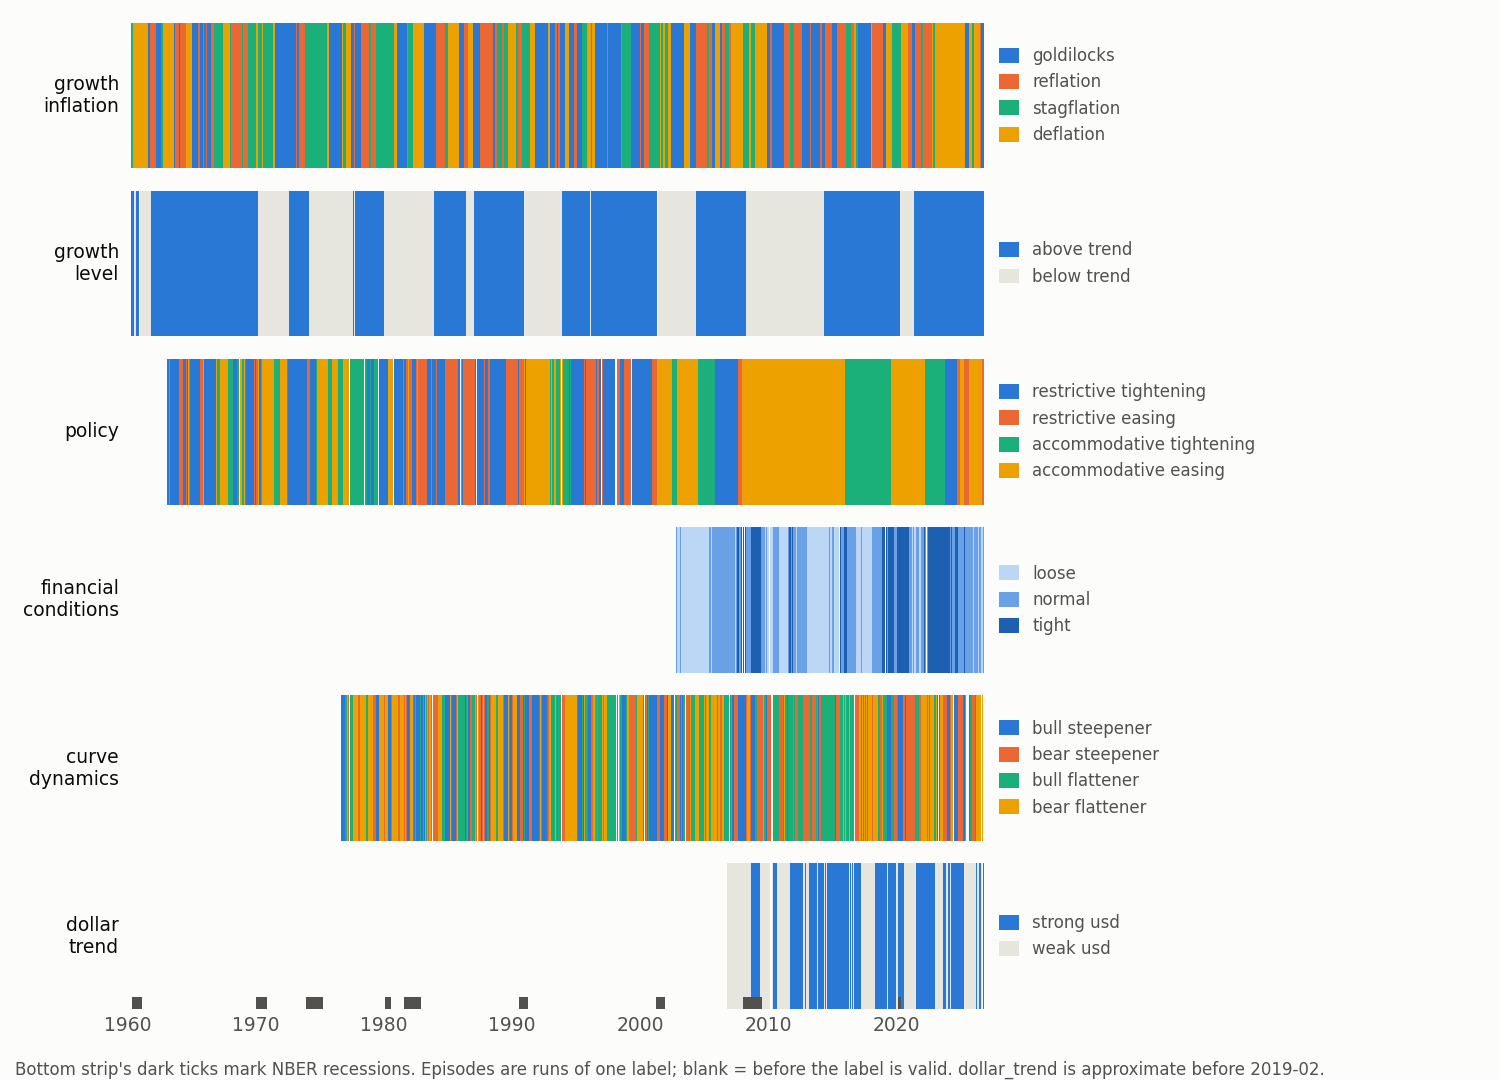
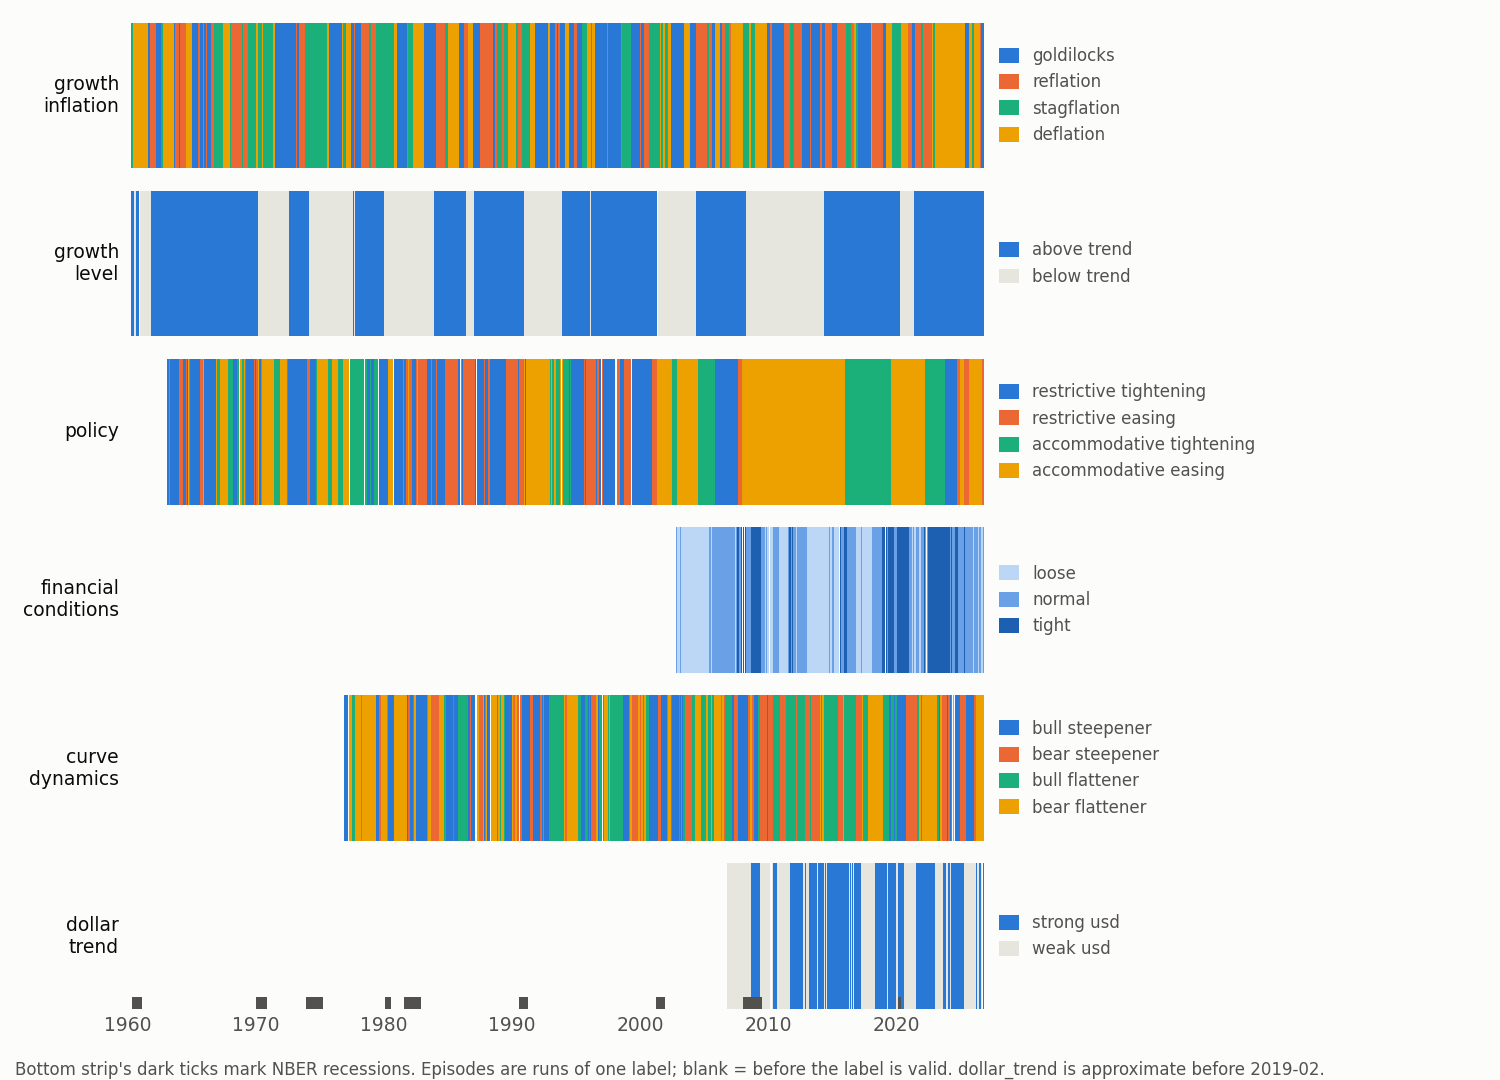
Market-style change window 63 -> 126 business days (CHANGE_WINDOW); validation numbers updated

Changed region(s): [[0.2147, 0.6417, 0.6747, 0.7944]]

diff --git a/src/macro/market.py b/src/macro/market.py
@@ -25,7 +25,7 @@ import pandas as pd
 
 from src.backtest.regimes import expanding_bucket_labels, ma_trend_labels
 from src.macro.pit import to_daily
-from src.macro.state import BURN_IN, D63, _composite, expanding_z
+from src.macro.state import BURN_IN, CHANGE_WINDOW, _composite, expanding_z
 
 MA_WINDOW = 200
 VOL_BURN_IN = 756
@@ -33,7 +33,7 @@ VOL_LABELS = ["low_vol", "mid_vol", "high_vol"]    # same as src.backtest.regime
 COT_AVAILABLE_LAG_DAYS = 3                         # report is for Tuesday, published Friday
 
 # Daily z-score composites: (input key, frequency, sign). Growth pricing is built
-# from derived 63-day changes, see growth_pricing().
+# from derived 126-day changes, see growth_pricing().
 # Positioning: key -> (series code, measure, label). Leveraged funds on TFF for
 # rates / equity index / FX, managed money on disaggregated for commodities.
 POSITIONING: dict[str, tuple[str, str, str]] = {
@@ -53,12 +53,12 @@ def _d(inputs: dict[str, pd.Series], key: str, index: pd.DatetimeIndex) -> pd.Se
     return to_daily(inputs[key], index).rename(key)
 
 
-def _chg(s: pd.Series, n: int = D63) -> pd.Series:
+def _chg(s: pd.Series, n: int = CHANGE_WINDOW) -> pd.Series:
     return s - s.shift(n)
 
 
 def credit(inputs: dict[str, pd.Series], index: pd.DatetimeIndex) -> pd.DataFrame:
-    """HY OAS level and 63-day change, and BBB OAS - IG OAS (all in percent). From 1997."""
+    """HY OAS level and 126-day change, and BBB OAS - IG OAS (all in percent). From 1997."""
     hy = _d(inputs, "BAMLH0A0HYM2", index)
     return pd.DataFrame({
         "hy_oas": hy, "d_hy_oas": _chg(hy),
@@ -110,7 +110,7 @@ def equity_trend(inputs: dict[str, pd.Series], index: pd.DatetimeIndex) -> pd.Se
 
 
 def growth_pricing(inputs: dict[str, pd.Series], index: pd.DatetimeIndex) -> pd.DataFrame:
-    """What markets price for growth: mean of expanding z-scores (burn-in 756) of 63-day
+    """What markets price for growth: mean of expanding z-scores (burn-in 756) of 126-day
     changes in T10Y2Y, -HY OAS, log(Russell 2000 / S&P 500) and log(copper / gold).
     Positive = markets price stronger growth. Needs >= 2 components. From ~2000.
     Copper and gold are front-month futures, not roll-adjusted, so the ratio carries
@@ -140,14 +140,14 @@ def _z_of_change(s: pd.Series, index: pd.DatetimeIndex) -> pd.Series:
 
 
 def inflation_pricing(inputs: dict[str, pd.Series], index: pd.DatetimeIndex) -> pd.Series:
-    """63-day change in T10YIE, expanding z (burn-in 756). From 2003 (+ burn-in)."""
+    """126-day change in T10YIE, expanding z (burn-in 756). From 2003 (+ burn-in)."""
     if "T10YIE" not in inputs:
         return pd.Series(np.nan, index=index, name="inflation_pricing")
     return _z_of_change(inputs["T10YIE"], index).rename("inflation_pricing")
 
 
 def policy_pricing(inputs: dict[str, pd.Series], index: pd.DatetimeIndex) -> pd.Series:
-    """63-day change in DGS2 - DFF, expanding z (burn-in 756). From 1976 (+ burn-in)."""
+    """126-day change in DGS2 - DFF, expanding z (burn-in 756). From 1976 (+ burn-in)."""
     if "DGS2" not in inputs or "DFF" not in inputs:
         return pd.Series(np.nan, index=index, name="policy_pricing")
     spread = (_d(inputs, "DGS2", index) - _d(inputs, "DFF", index)).dropna()

diff --git a/src/macro/rates.py b/src/macro/rates.py
@@ -5,8 +5,8 @@ Rates decomposition (C4). Pure pandas, no DB access: it takes the release-dated
 daily series built by src.macro.inputs.load_rates_inputs. Definitions are frozen
 in docs/research/macro_state_definitions_v1.md section 2.
 
-All series are forward-filled onto a business-day grid; "3-month" changes are
-D63 = 63 business days. Yields are in percent, so 10 bp = 0.10.
+All series are forward-filled onto a business-day grid; changes are over
+CHANGE_WINDOW = 126 business days (~6 months). Yields are in percent, so 10 bp = 0.10.
 
 Usage:
     inputs = load_rates_inputs(ro)
@@ -22,7 +22,7 @@ import pandas as pd
 
 from src.macro.pit import to_daily
 
-D63 = 63
+CHANGE_WINDOW = 126
 ATTRIBUTION_MIN_MOVE = 0.10     # percent: shares only reported when |d_nominal| exceeds this
 PROXY_DURATION = 8.5            # constant modified duration of the Treasury proxy, years
 PROXY_DAYS = 252
@@ -40,7 +40,7 @@ def _daily(inputs: dict[str, pd.Series], code: str, index: pd.DatetimeIndex) -> 
 
 
 def nominal_decomposition(
-    inputs: dict[str, pd.Series], index: pd.DatetimeIndex, tenor: int = 10, window: int = D63,
+    inputs: dict[str, pd.Series], index: pd.DatetimeIndex, tenor: int = 10, window: int = CHANGE_WINDOW,
 ) -> pd.DataFrame:
     """nominal = real + breakeven, with `window`-day changes attributed to each part.
 
@@ -64,7 +64,7 @@ def nominal_decomposition(
     return out
 
 
-def term_premium(inputs: dict[str, pd.Series], index: pd.DatetimeIndex, window: int = D63) -> pd.DataFrame:
+def term_premium(inputs: dict[str, pd.Series], index: pd.DatetimeIndex, window: int = CHANGE_WINDOW) -> pd.DataFrame:
     """THREEFYTP10 level and change. A model estimate (real-time from 2016 only; earlier
     values are revised history, so under the default pre_vintage="drop" the loader
     returns it from 2016 only; use "latest_lagged" for exploration). Shown beside the decomposition, never added to it:
@@ -73,8 +73,8 @@ def term_premium(inputs: dict[str, pd.Series], index: pd.DatetimeIndex, window: 
     return pd.DataFrame({"term_premium": tp, "d_term_premium": tp - tp.shift(window)})
 
 
-def curve(inputs: dict[str, pd.Series], index: pd.DatetimeIndex, window: int = D63) -> pd.DataFrame:
-    """Curve levels, 3-month changes and the bull/bear steepener/flattener state.
+def curve(inputs: dict[str, pd.Series], index: pd.DatetimeIndex, window: int = CHANGE_WINDOW) -> pd.DataFrame:
+    """Curve levels, 6-month changes and the bull/bear steepener/flattener state.
 
     bull/bear = d_DGS10 < 0 / >= 0; steepener/flattener = d_T10Y2Y >= 0 / < 0.
     State is NaN where either change is unavailable. T10Y2Y from 1976, T10Y3M from 1982.
@@ -93,7 +93,7 @@ def curve(inputs: dict[str, pd.Series], index: pd.DatetimeIndex, window: int = D
     return out
 
 
-def policy_expectations(inputs: dict[str, pd.Series], index: pd.DatetimeIndex, window: int = D63) -> pd.DataFrame:
+def policy_expectations(inputs: dict[str, pd.Series], index: pd.DatetimeIndex, window: int = CHANGE_WINDOW) -> pd.DataFrame:
     """DGS2 - DFF and DGS1 - DFF: a free proxy for OIS-implied policy over 1-2 years.
     It includes term premium, so it is a proxy, not an expectation. From 1976."""
     dff = _daily(inputs, "DFF", index)

diff --git a/src/macro/state.py b/src/macro/state.py
@@ -30,8 +30,11 @@ from src.macro.pit import staleness, to_daily
 BURN_IN: dict[str, int] = {"monthly": 60, "weekly": 156, "daily": 756, "quarterly": 20}
 Z_CLIP = 3.0
 
-# Business-day windows for market-style changes.
-D126, D63 = 126, 63
+# Business-day windows. CHANGE_WINDOW is the one lookback for every market-style change in the
+# macro layer (FC_impulse here, curve / decomposition changes in rates.py, credit and pricing
+# changes in market.py): 6 months, matching the 6-month impulses of the macro series (J4).
+D126 = 126
+CHANGE_WINDOW = D126
 
 # (input name, frequency, sign). Positive sign = more of what the composite is named for.
 GROWTH_LEVEL = [("ip_yoy", "monthly", +1), ("pay_yoy", "monthly", +1), ("unr_gap", "monthly", -1)]
@@ -117,7 +120,7 @@ def macro_state(inputs: dict[str, pd.Series], index: pd.DatetimeIndex) -> pd.Dat
     out["G_impulse"], out["G_impulse_n"] = g_imp["value"], g_imp["n"]
     out["L_impulse"], out["L_impulse_n"] = l_imp["value"], l_imp["n"]
     out["FC"], out["FC_n"] = fc["value"], fc["n"]
-    out["FC_impulse"] = fc["value"] - fc["value"].shift(D63)
+    out["FC_impulse"] = fc["value"] - fc["value"].shift(CHANGE_WINDOW)
     out["CS"], out["CS_n"] = cs["value"], cs["n"]
     out["CS_impulse"] = cs["value"] - cs["value"].shift(D126)
 

diff --git a/tests/macro/test_rates.py b/tests/macro/test_rates.py
@@ -57,11 +57,13 @@ def test_missing_series_give_nan_not_error():
     assert rates.treasury_proxy_returns({}, IDX).isna().all()
 
 
-def test_changes_are_causal_63_day_differences():
+def test_changes_are_causal_6_month_differences():
+    n = rates.CHANGE_WINDOW
+    assert n == 126
     inp = _inputs()
     d = rates.nominal_decomposition(inp, IDX)
-    assert d["d_real"].iloc[100] == pytest.approx(inp["DFII10"].iloc[100] - inp["DFII10"].iloc[37])
-    assert d["d_real"].iloc[:63].isna().all()
+    assert d["d_real"].iloc[200] == pytest.approx(inp["DFII10"].iloc[200] - inp["DFII10"].iloc[200 - n])
+    assert d["d_real"].iloc[:n].isna().all() and d["d_real"].iloc[n:].notna().all()
 
 
 def test_truncation_invariance():
@@ -76,7 +78,7 @@ def test_curve_state_labels():
     y10 = _s(np.r_[np.linspace(4, 3, 200), np.linspace(3, 5, len(IDX) - 200)])
     spread = _s(np.r_[np.linspace(1, 2, 200), np.linspace(2, 0, len(IDX) - 200)])
     c = rates.curve({"DGS10": y10, "T10Y2Y": spread}, IDX)
-    assert c["curve_state"].iloc[:63].isna().all()
+    assert c["curve_state"].iloc[:rates.CHANGE_WINDOW].isna().all()
     assert c["curve_state"].iloc[150] == "bull_steepener"
     assert c["curve_state"].iloc[-1] == "bear_flattener"
 

diff --git a/tests/macro/test_state.py b/tests/macro/test_state.py
@@ -182,3 +182,12 @@ def test_state_reports_inputs_that_are_approximate_before_their_first_vintage():
     st = macro_state(inp, IDX)
     assert st.attrs["approximate_before"] == {"cont_yoy13": pd.Timestamp("2009-09-10")}
     assert macro_state(_inputs(), IDX).attrs["approximate_before"] == {}
+
+
+def test_fc_impulse_uses_the_six_month_change_window():
+    from src.macro.state import CHANGE_WINDOW
+    st = macro_state(_inputs(), IDX)
+    assert CHANGE_WINDOW == 126
+    fc = st["FC"]
+    both = pd.concat([st["FC_impulse"], fc - fc.shift(CHANGE_WINDOW)], axis=1).dropna()
+    assert len(both) > 100 and (both.iloc[:, 0] - both.iloc[:, 1]).abs().max() < 1e-12

diff --git a/tests/macro/test_market.py b/tests/macro/test_market.py
@@ -34,7 +34,9 @@ def test_credit_and_dollar_definitions():
     inp = _inputs()
     c = market.credit(inp, IDX)
     assert c["bbb_minus_ig"].iloc[50] == pytest.approx(inp["BAMLC0A4CBBB"].iloc[50] - inp["BAMLC0A0CM"].iloc[50])
-    assert c["d_hy_oas"].iloc[100] == pytest.approx(inp["BAMLH0A0HYM2"].iloc[100] - inp["BAMLH0A0HYM2"].iloc[37])
+    n = market.CHANGE_WINDOW
+    assert n == 126
+    assert c["d_hy_oas"].iloc[200] == pytest.approx(inp["BAMLH0A0HYM2"].iloc[200] - inp["BAMLH0A0HYM2"].iloc[200 - n])
     d = market.dollar(inp, IDX)
     assert d["usd_gap"].iloc[:199].isna().all() and d["usd_gap"].iloc[199:].notna().all()
     usd = inp["DTWEXBGS"]

diff --git a/src/macro/regimes.py b/src/macro/regimes.py
@@ -241,7 +241,7 @@ class FinancialConditionsRegime(MacroRegime):
 
 
 class CurveDynamicsRegime(MacroRegime):
-    """bull/bear x steepener/flattener from the 63-day changes in DGS10 and T10Y2Y."""
+    """bull/bear x steepener/flattener from the 126-day (6-month) changes in DGS10 and T10Y2Y."""
     layer = "market"
     name = "curve_dynamics"
     columns = ("curve_state",)

diff --git a/docs/research/macro_state_validation.md b/docs/research/macro_state_validation.md
@@ -5,6 +5,7 @@
 **Code checked:** `06cdedc` (state), `2984b5b` (rates), `d2fcc8a` + `e452b2b` (market, dollar), `81dfaab` (regimes, flags), `ad25a59` (ledger).
 **Data as of:** 2026-10-23. Every number below comes from `scripts/macro_state_validation.py`.
 **No asset returns were used** (plan step C8.1). Everything is compared with NBER recessions (`USREC`), known episodes, other vintages of the same data, and the state's own history.
+**Change window (2026-10-24):** every market-style change in the macro layer now uses 126 business days (6 months), not 63. This affects `curve_dynamics`, `FC_impulse`, the rates decomposition and the market pricing variables. Numbers below are on the 126-day window; the one that changed materially is `curve_dynamics` (1,282 episodes before, 816 now).
 **File name:** the plan called this `macro_state_v1.md`; the repo's guard treats any `docs/research/*_v<N>.md` as a frozen definitions file, so it is named `macro_state_validation.md`. Figures are in `docs/research/macro_state_v1/`.
 
 ## 1. Verdict in one table
@@ -135,7 +136,7 @@ I rebuilt the whole state using every period's *latest* value, available on its 
 | `L_level` | 0.998 | 0.067 | 0.45 |
 | `L_impulse` | 0.987 | 0.090 | 0.54 |
 | `pi_level`, `pi_impulse`, `P_stance`, `P_impulse` | 1.000 | 0.000 | 0.000 |
-| `FC`, `FC_impulse` | 1.000, 0.999 | 0.008, 0.012 | 0.20, 0.19 |
+| `FC`, `FC_impulse` | 1.000, 1.000 | 0.008, 0.012 | 0.20, 0.21 |
 | `CS`, `CS_impulse` | 0.979, 0.942 | 0.106, 0.126 | 0.90, 0.84 |
 
 | Regime | Label differs on (all days) | Since 1996 |
@@ -184,19 +185,19 @@ Cramér's V between regime labels, on days where both exist (at least 5,008 days
 
 | | gr_inf | gr_lvl | policy | fin_cond | curve | dollar | vol | rates_curve | eq_trend |
 |---|---|---|---|---|---|---|---|---|---|
-| growth_inflation | 1.00 | 0.24 | 0.16 | 0.39 | 0.21 | 0.24 | 0.17 | 0.20 | 0.22 |
-| growth_level | 0.24 | 1.00 | **0.54** | 0.24 | 0.20 | 0.08 | 0.09 | 0.13 | 0.08 |
-| policy | 0.16 | 0.54 | 1.00 | 0.25 | 0.21 | 0.15 | 0.22 | **0.45** | 0.06 |
-| financial_conditions | 0.39 | 0.24 | 0.25 | 1.00 | 0.22 | 0.12 | 0.37 | 0.35 | **0.43** |
-| curve_dynamics | 0.21 | 0.20 | 0.21 | 0.22 | 1.00 | 0.15 | 0.11 | 0.17 | 0.12 |
-| dollar_trend | 0.24 | 0.08 | 0.15 | 0.12 | 0.15 | 1.00 | 0.10 | 0.01 | 0.20 |
-| volatility | 0.17 | 0.09 | 0.22 | 0.37 | 0.11 | 0.10 | 1.00 | 0.03 | **0.49** |
-| rates_curve | 0.20 | 0.13 | 0.45 | 0.35 | 0.17 | 0.01 | 0.03 | 1.00 | 0.02 |
-| equity_trend | 0.22 | 0.08 | 0.06 | 0.43 | 0.12 | 0.20 | 0.49 | 0.02 | 1.00 |
+| growth_inflation | 1.00 | 0.24 | 0.16 | 0.39 | 0.26 | 0.24 | 0.17 | 0.20 | 0.22 |
+| growth_level | 0.24 | 1.00 | **0.54** | 0.24 | 0.28 | 0.08 | 0.09 | 0.13 | 0.08 |
+| policy | 0.16 | 0.54 | 1.00 | 0.25 | 0.31 | 0.15 | 0.22 | **0.45** | 0.06 |
+| financial_conditions | 0.39 | 0.24 | 0.25 | 1.00 | 0.21 | 0.12 | 0.37 | 0.35 | **0.43** |
+| curve_dynamics | 0.26 | 0.28 | 0.31 | 0.21 | 1.00 | 0.20 | 0.15 | 0.26 | 0.21 |
+| dollar_trend | 0.24 | 0.08 | 0.15 | 0.12 | 0.20 | 1.00 | 0.10 | 0.01 | 0.20 |
+| volatility | 0.17 | 0.09 | 0.22 | 0.37 | 0.15 | 0.10 | 1.00 | 0.03 | **0.49** |
+| rates_curve | 0.20 | 0.13 | 0.45 | 0.35 | 0.26 | 0.01 | 0.03 | 1.00 | 0.02 |
+| equity_trend | 0.22 | 0.08 | 0.06 | 0.43 | 0.21 | 0.20 | 0.49 | 0.02 | 1.00 |
 
 - **No pair is a near-duplicate** (highest 0.54, `policy` and `growth_level`; both follow the long cycles of the 1960s–80s). So nothing needs dropping on overlap grounds.
-- **`RatesRegime` (`rates_curve`) and `curve_dynamics` both stay:** V = 0.17. One is the level of the curve, the other the direction of change.
-- **State vector correlations above 0.6 in absolute value:** `G_level` with `L_level` (-0.80) and `G_impulse` with `L_impulse` (-0.74). They share unemployment and claims, so the labor variables add little over growth. They stay because the spec keeps them for the `labor_deteriorating` flag, but they shouldn't be used as independent regressors next to `G`.
+- **`RatesRegime` (`rates_curve`) and `curve_dynamics` both stay:** V = 0.26. One is the level of the curve, the other the direction of change.
+- **State vector correlations above 0.6 in absolute value:** `G_level` with `L_level` (-0.80) and `G_impulse` with `L_impulse` (-0.73). They share unemployment and claims, so the labor variables add little over growth. They stay because the spec keeps them for the `labor_deteriorating` flag, but they shouldn't be used as independent regressors next to `G`.
 
 ## 7. Episodes: how many independent observations are behind each label
 
@@ -208,12 +209,12 @@ An episode is a maximal run of one label. Labels with fewer than 5 episodes woul
 | `growth_level` | 1960-04 | 21 | 780 | 827 |
 | `policy` | 1963-02 | 862 | **3.5** | 19 |
 | `financial_conditions` | 2002-10 | 388 | **3.5** | 16 |
-| `curve_dynamics` | 1976-08 | 1,282 | **3.0** | 10 |
+| `curve_dynamics` | 1976-11 | 816 | **3.0** | 16 |
 | `dollar_trend` | 2006-10 | 108 | 10 | 48 |
 
 (`growth_inflation` and `growth_level` are shown with their `min_duration` rule applied, which is how experiments see them. The existing `volatility` and `equity_trend` regimes are similar in kind: 870 and 373 episodes, medians of 3 and 4 days on the raw label counts.)
 
-`growth_inflation`'s 21-day rule works: without it there'd be 259 episodes with a median of 40 days. The other regimes have no such rule and flip every few days. Counted as raw runs they look like hundreds of independent episodes; they aren't. A label that flips every 3 days around a threshold is noise sampling, and each regime statistic would carry a false sense of precision.
+`growth_inflation`'s 21-day rule works: without it there'd be 259 episodes with a median of 40 days. The other regimes have no such rule and flip every few days. For `curve_dynamics` the 6-month change window cut the episodes from 1,282 to 816 and raised the mean run from 10 to 16 days, but the median is still 3: a longer window doesn't stop the sign of a change flipping around zero day to day. Counted as raw runs they look like hundreds of independent episodes; they aren't. A label that flips every 3 days around a threshold is noise sampling, and each regime statistic would carry a false sense of precision.
 
 What the existing `min_duration` rule does if applied elsewhere (label stability only; each rule delays a regime change by that many days):
 
@@ -225,9 +226,9 @@ What the existing `min_duration` rule does if applied elsewhere (label stability
 | `financial_conditions` | 1 (current) | 388 | 3.5 | 3/3 |
 | | 21 | 33 | 123 | 3/3 |
 | | 63 | 15 | 355 | **1/3** |
-| `curve_dynamics` | 1 (current) | 1,282 | 3.0 | 4/4 |
-| | 21 | 125 | 83 | 4/4 |
-| | 63 | 38 | 263 | 4/4 |
+| `curve_dynamics` | 1 (current) | 816 | 3.0 | 4/4 |
+| | 21 | 94 | 110 | 4/4 |
+| | 63 | 46 | 266 | 4/4 |
 | `dollar_trend` | 1 (current) | 108 | 10 | 2/2 |
 | | 21 | 26 | 182 | 2/2 |
 | | 63 | 13 | 338 | 2/2 |
@@ -240,7 +241,7 @@ Spec section 7 allows a definition to change when C8 shows it's wrong, with a wr
 
 | # | Finding | Proposal | Effect |
 |---|---|---|---|
-| **D1** | Four regimes flip every 2–10 days (§7) | Apply `min_duration = 21` to `policy`, `financial_conditions`, `curve_dynamics` and `dollar_trend` (the J9 alternative: "apply to every regime"). Leave `growth_level` (already stable) | Episodes fall from 862 / 388 / 1,282 / 108 to 62 / 33 / 125 / 26; every change is confirmed 21 days late. New `family_version` v2 |
+| **D1** | Four regimes flip every 2–10 days (§7) | Apply `min_duration = 21` to `policy`, `financial_conditions`, `curve_dynamics` and `dollar_trend` (the J9 alternative: "apply to every regime"). Leave `growth_level` (already stable) | Episodes fall from 862 / 388 / 816 / 108 to 62 / 33 / 94 / 26; every change is confirmed 21 days late. New `family_version` v2 |
 | **D2** | Continuing claims aren't unrevised (§5.2) | **Decided and applied 2026-10-24:** same treatment as the dollar (real-time vintages from 2009-09, back-filled latest values with a 19-day lag before; `L_impulse` flagged approximate before then) | `L_impulse` correlation 1.000 with the old build; `labor_deteriorating` flag differs on 0.4% of days; regimes identical. Full 1968 history kept |
 | **D3** | SLOOS history was restated in 2019 (§5.2) | Keep, and label `CS` as approximate for its expanding baseline before 2019 | No code change; one line in the spec's change log |
 | **D4** | `policy` stance is "accommodative" through 2009–2022 (§4) | No change. Report `policy` results pre- and post-2008 separately, and don't read `restrictive_*` after 2008 | None |

diff --git a/docs/plans/macro_research_layer.md b/docs/plans/macro_research_layer.md
@@ -365,7 +365,7 @@ A first-class module, not part of "curve dynamics".
 `src/macro/inputs.py` (13 daily FRED codes); 10 tests. Definitions follow spec section 2 unchanged.
 Notes: `THREEFYTP10` is vintaged from 2016-05 only, so under E2 "drop" the term premium starts
 there (`latest_lagged` for exploration). 10Y decomposition residual max 2 bp (rounding). Live values on
-2026-10-23: 10Y 4.96 = real 2.64 + BE 2.34 (3m move +35 bp, two-thirds real), curve `bear_flattener`,
+2026-10-23: 10Y 4.96 = real 2.64 + BE 2.34 (3-month move +35 bp, two-thirds real; measured at the original 63-day window, which later became 126 days), curve `bear_flattener`,
 T10Y2Y +0.31, DGS2-DFF +0.77.
 
 ## C5. Market state and positioning (`src/macro/market.py`)
@@ -439,7 +439,7 @@ pass); the six regimes run through the real `Conditioner.by_regime()`. The exist
 | `growth_level` | 1960-04 | 25 | above_trend |
 | `policy` | 1963-02 | 862 | restrictive_easing |
 | `financial_conditions` | 2002-10 | 388 | normal |
-| `curve_dynamics` | 1976-08 | 1,282 | bear_flattener |
+| `curve_dynamics` | 1976-11 | 816 (1,282 at the original 63-day window) | bear_flattener |
 | `dollar_trend` | 2006-10 (approximate before 2019-02) | 108 | strong_usd |
 
 For C8: `policy` and `curve_dynamics` flip often (a sign flip of `P_stance` or a 63-day change near zero),
@@ -505,6 +505,12 @@ track recessions and stress episodes; real-time vs latest-vintage labels differ 
 SLOOS was restated in 2019-11, policy stance reads "accommodative" through 2009-2022 (negative real rates), and
 fixed release lags were exceeded in 2025 (shutdown). **Checkpoint: researcher reads it and decides D1 before
 C7 and C9.**
+
+**Change window (2026-10-24, researcher decision).** Every 63-business-day change in the macro layer (`FC_impulse`, the rates
+module, the market pricing variables, the curve state) became 126 business days via `state.CHANGE_WINDOW`: J4 said
+"6 months (63 business days)", which contradicted itself. `curve_dynamics` episodes 1,282 -> 816 (median run still 3 days);
+no other regime changed. Logged in the spec's change log; it needs `macro_state_definitions_v2.md` (researcher) and ledger
+`family_version` v2. Live-value notes in the C4 and C5 outcomes above were measured at 63 days.
 
 ## C9. Experiment integration
 

diff --git a/docs/research/macro_state_definitions_v1.md b/docs/research/macro_state_definitions_v1.md
@@ -241,3 +241,17 @@ test in C8 (revised about 2% in level, still 56 days after the period), so it is
 back-filled latest values available 19 days after each period before that. `L_impulse` is approximate before 2009-09-10
 (`macro_state().attrs["approximate_before"]`). Effect: `L_impulse` correlation 1.000 with the previous build, mean abs.
 difference 0.006; `labor_deteriorating` differs on 0.4% of days; every macro regime label is unchanged.
+
+### Change after the C8 validation: market-style change window 63 -> 126 business days (2026-10-24)
+
+**Researcher decision. This changes definitions, so it needs a new `family_version` (v2) and the definitions table above, which is
+frozen, is not edited; the researcher creates `macro_state_definitions_v2.md`.** Reason: J4 says "6 months (63 business days for market
+series)", but 63 business days is about 3 months, so the spec contradicted itself; the macro impulses (`G_impulse`, `pi_impulse`,
+`P_impulse`, `CS_impulse`) are 6-month changes, and the market series they are compared with in the pricing divergence (section 5)
+should use the same horizon. Every 63-business-day change is now 126 (`state.CHANGE_WINDOW`, also used by `rates.py` and `market.py`):
+`FC_impulse`; `T10Y2Y` and `DGS10` changes in the curve state; the nominal / real / breakeven attribution changes; the term
+premium and policy-expectation changes; the HY OAS change; and the growth, inflation and policy pricing changes. Not changed:
+the 3-month average in the Sahm rule, `unr_d3` (a stated 3-month change in `UNRATE`) and the 200-day dollar mean.
+Effect (label stability only; no returns were used): `curve_dynamics` episodes 1,282 -> 816, mean run 10 -> 16 business days,
+median unchanged at 3; valid from 1976-11-24 (was 1976-08-27); no other regime label changed. Series valid-from dates move out
+by about 63 business days for the changed variables.
